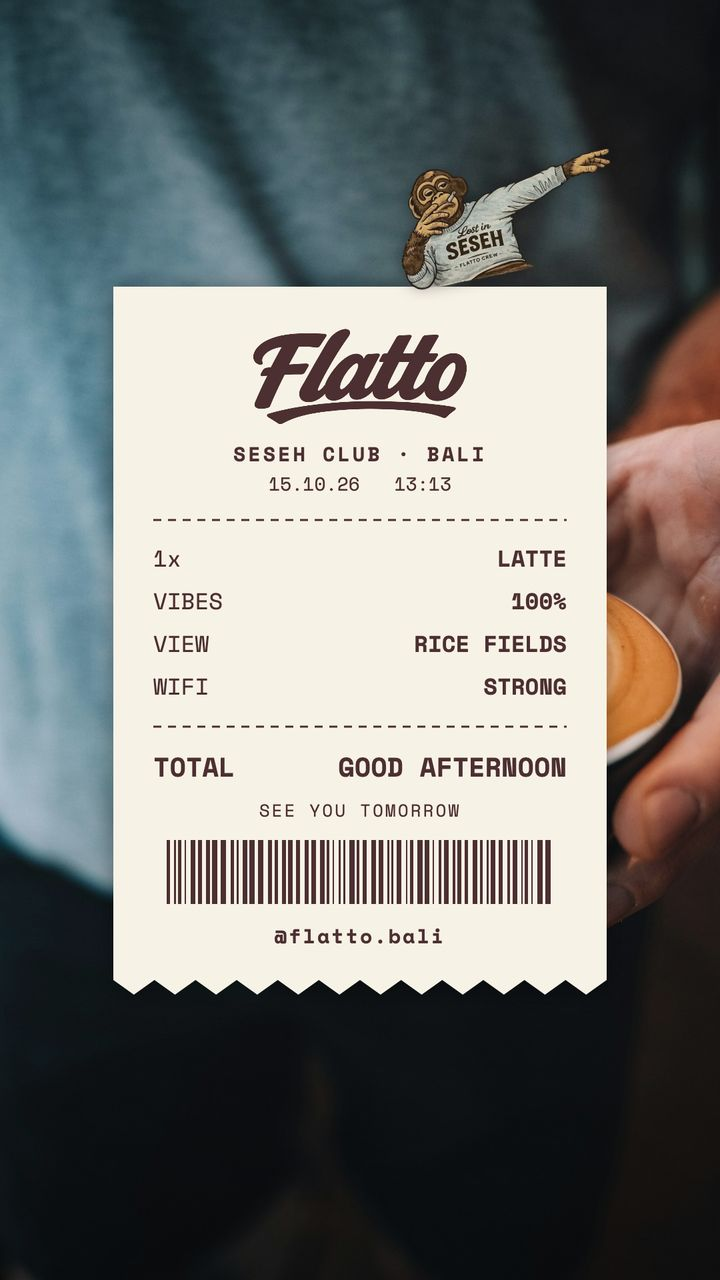
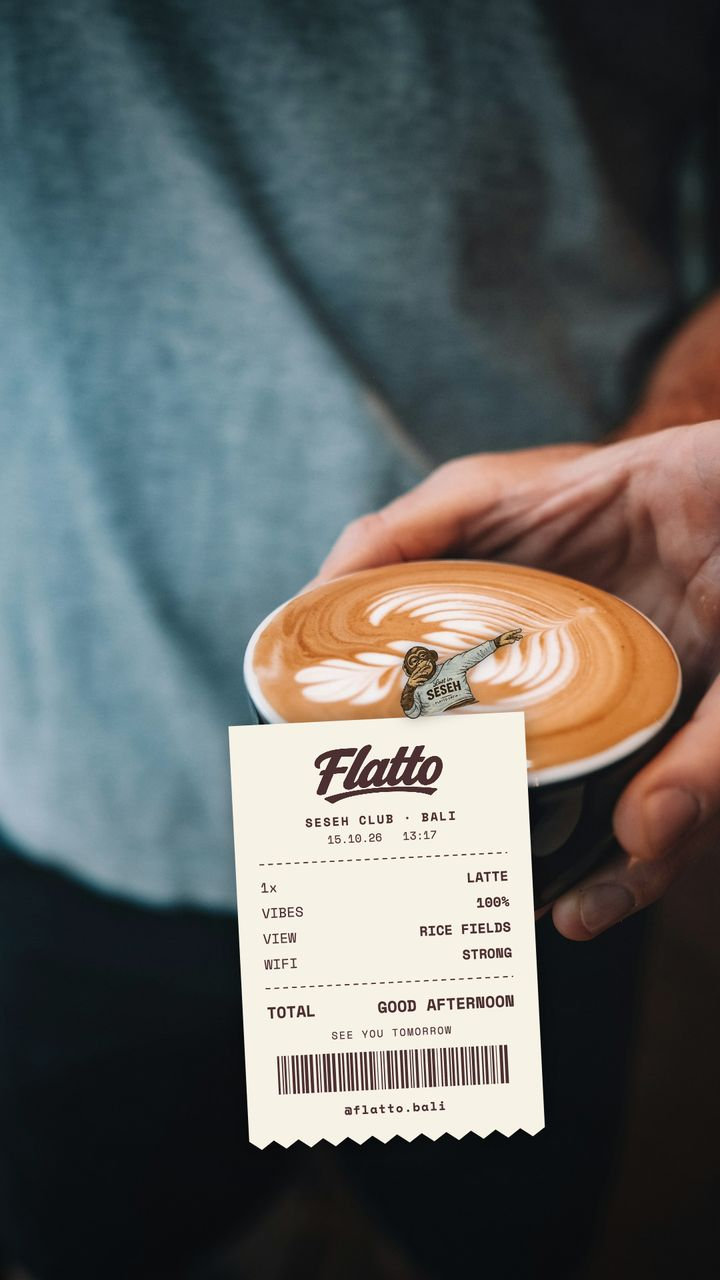
Smaller receipt

diff --git a/index.html b/index.html
@@ -470,6 +470,11 @@ const myBit=d=>profile?`${((profile.total||0)+d.km).toFixed(1)} KM WITH FLATTO`:
 function storyBits(d){const b=[];if(myBit(d))b.push(myBit(d));if(d.tier)b.push(d.tier);return b}
 
 function drawReceipt(c,rows,total,note){
+  // Drawn at full size, then shrunk and tilted into the lower part of the story so the photo stays visible.
+  ctx.save();ctx.translate(W/2+40,1390);ctx.rotate(-.05);ctx.scale(.6,.6);ctx.translate(-W/2,-950);
+  try{return drawReceiptBody(c,rows,total,note)}finally{ctx.restore()}
+}
+function drawReceiptBody(c,rows,total,note){
   const x=170,y=430,w=W-340,h=1040,ink='#4C2F31',mono='"Space Mono","Courier New",monospace',L=x+60,R=x+w-60,now=new Date();
   const ds=[now.getDate(),now.getMonth()+1].map(n=>String(n).padStart(2,'0')).join('.')+'.'+String(now.getFullYear()).slice(2),hm=now.toTimeString().slice(0,5);
   ctx.shadowColor='rgba(0,0,0,.35)';ctx.shadowBlur=36;ctx.fillStyle='#F7F2E6';ctx.beginPath();ctx.moveTo(x,y);ctx.lineTo(x+w,y);ctx.lineTo(x+w,y+h);
